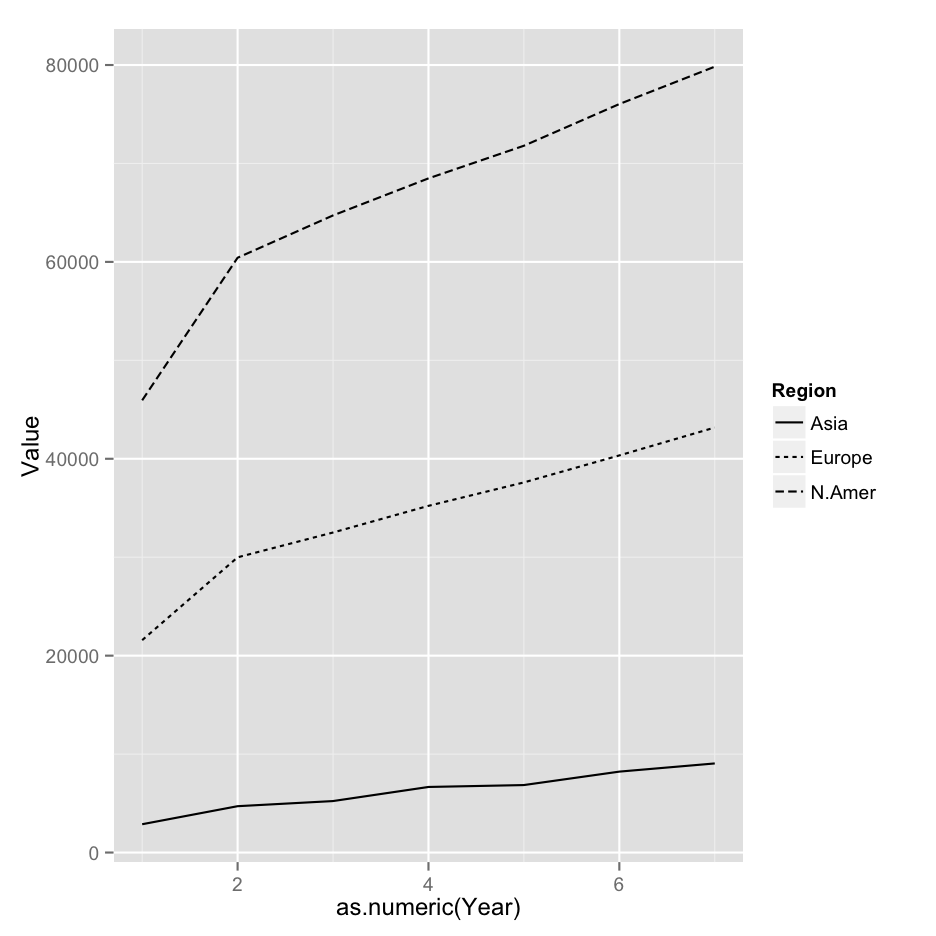
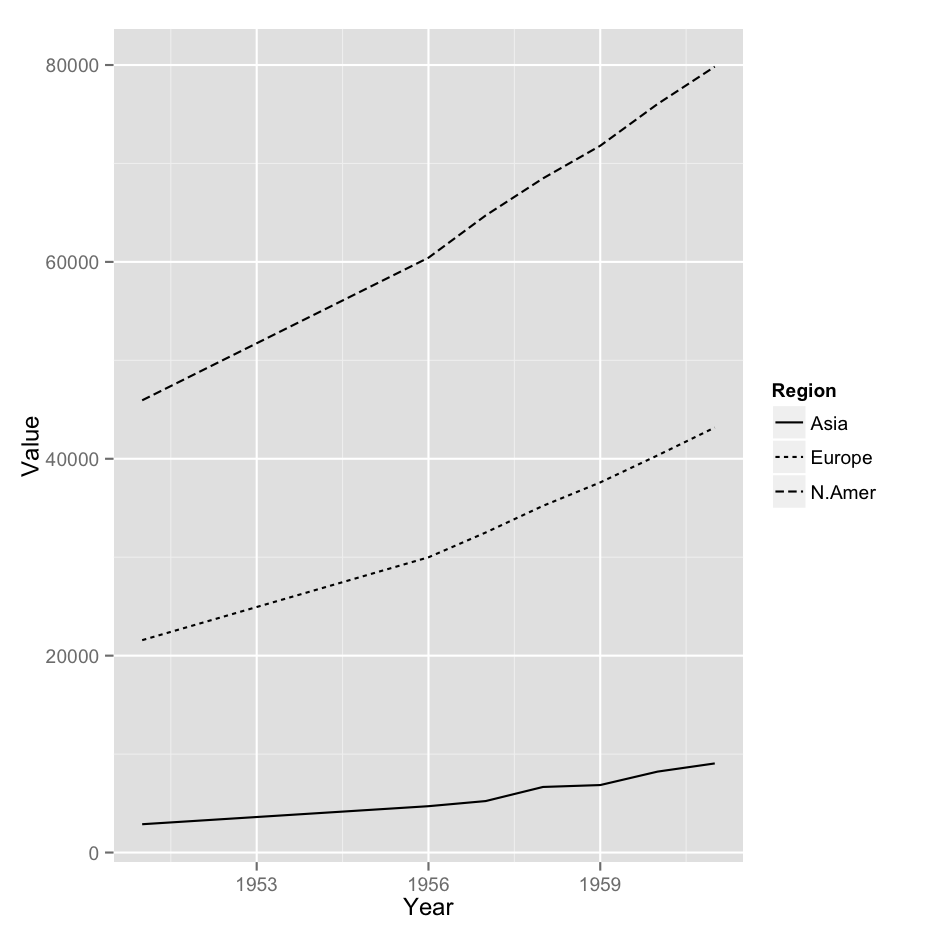
correct minor bugs

diff --git a/lecture_ggplot2/index.html b/lecture_ggplot2/index.html
@@ -579,7 +579,7 @@ ggplot(siris, aes(x=Species, fill=Fat)) + geom_bar(position=position_dodge())
     <h2>Exercise: Working hours by industry?</h2>
   </hgroup>
   <article data-timings="">
-    <pre><code class="r">data(&quot;salary&quot;, package=&quot;DSC2014Tutorial&quot;)
+    <pre><code class="r">data(&quot;salary&quot;, package=&quot;DSC2014Tutorial&quot;) # or load(&#39;salary.RData&#39;)
 par(family=&#39;Heiti TC Light&#39;) # for OS X (XQuartz device)
 hist(salary_2013$平均工時, main=NULL)
 </code></pre>
@@ -1147,7 +1147,8 @@ identical(WP.long$Value, WP.long2$Value)
     <h2>The rest is easy!</h2>
   </hgroup>
   <article data-timings="">
-    <pre><code class="r">ggplot(WP.long, aes(x=as.numeric(Year), y=Value, color=Region)) + geom_line()
+    <pre><code class="r">WP.long$Year &lt;- as.integer(as.character(WP.long$Year))
+ggplot(WP.long, aes(x=Year, y=Value, color=Region)) + geom_line()
 </code></pre>
 
 <div style='float:left;width:48%;' class='centered'>
@@ -1183,7 +1184,7 @@ identical(WP.long$Value, WP.long2$Value)
     <h2>More grouping var: linetype</h2>
   </hgroup>
   <article data-timings="">
-    <pre><code class="r">ggplot(WP.long, aes(x=as.numeric(Year), y=Value, linetype=Region)) + geom_line()
+    <pre><code class="r">ggplot(WP.long, aes(x=Year, y=Value, linetype=Region)) + geom_line()
 </code></pre>
 
 <p><img src="assets/fig/unnamed-chunk-54.png" title="plot of chunk unnamed-chunk-54" alt="plot of chunk unnamed-chunk-54" width="468" style="display: block; margin: auto;" /></p>
@@ -1197,7 +1198,7 @@ identical(WP.long$Value, WP.long2$Value)
     <h2>Again, beware of categorical x!</h2>
   </hgroup>
   <article data-timings="">
-    <pre><code class="r">ggplot(WP.long, aes(x=Year, y=Value, linetype=Region, group=Region)) + geom_line()
+    <pre><code class="r">ggplot(WP.long, aes(x=factor(Year), y=Value, linetype=Region, group=Region)) + geom_line()
 </code></pre>
 
 <p><img src="assets/fig/unnamed-chunk-55.png" title="plot of chunk unnamed-chunk-55" alt="plot of chunk unnamed-chunk-55" width="468" style="display: block; margin: auto;" /></p>
@@ -1211,7 +1212,7 @@ identical(WP.long$Value, WP.long2$Value)
     <h2>Reverse order of legend labels</h2>
   </hgroup>
   <article data-timings="">
-    <pre><code class="r">ggplot(WP.long, aes(x=as.numeric(Year), y=Value, linetype=Region)) + geom_line() +
+    <pre><code class="r">ggplot(WP.long, aes(x=Year, y=Value, linetype=Region)) + geom_line() +
   guides(linetype=guide_legend(reverse=TRUE))
 </code></pre>
 
@@ -1226,7 +1227,7 @@ identical(WP.long$Value, WP.long2$Value)
     <h2>Exercise: Real wage trending down...</h2>
   </hgroup>
   <article data-timings="">
-    <pre><code class="r">load(&#39;salary.RData&#39;); par(family=&#39;Heiti TC Light&#39;) # for OS X (XQuartz device)
+    <pre><code class="r">data(&quot;salary&quot;, package=&quot;DSC2014Tutorial&quot;) # or load(&#39;salary.RData&#39;)
 plot(x=salary_cpi$year, y=salary_cpi$salary, type=&#39;l&#39;, xlab=&#39;Year&#39;, ylab=&#39;Wage&#39;)
 lines(x=salary_cpi$year, y=salary_cpi$real_wage, col=&#39;red&#39;)
 legend(&#39;bottomright&#39;, c(&#39;Nominal&#39;, &#39;Real&#39;), lty=c(1,1), col=c(&#39;black&#39;,&#39;red&#39;), inset=.02)

diff --git a/lecture_ggplot2/index.md b/lecture_ggplot2/index.md
@@ -349,7 +349,7 @@ ggplot(iris, aes(x=Sepal.Length, y=..density.., fill=Species)) +
 ## Exercise: Working hours by industry?
 
 ```r
-data("salary", package="DSC2014Tutorial")
+data("salary", package="DSC2014Tutorial") # or load('salary.RData')
 par(family='Heiti TC Light') # for OS X (XQuartz device)
 hist(salary_2013$平均工時, main=NULL)
 ```
@@ -755,7 +755,8 @@ identical(WP.long$Value, WP.long2$Value)
 ## The rest is easy!
 
 ```r
-ggplot(WP.long, aes(x=as.numeric(Year), y=Value, color=Region)) + geom_line()
+WP.long$Year <- as.integer(as.character(WP.long$Year))
+ggplot(WP.long, aes(x=Year, y=Value, color=Region)) + geom_line()
 ```
 
 *** =left
@@ -788,7 +789,7 @@ WP.long[1:12,]
 ## More grouping var: linetype
 
 ```r
-ggplot(WP.long, aes(x=as.numeric(Year), y=Value, linetype=Region)) + geom_line()
+ggplot(WP.long, aes(x=Year, y=Value, linetype=Region)) + geom_line()
 ```
 
 <img src="assets/fig/unnamed-chunk-54.png" title="plot of chunk unnamed-chunk-54" alt="plot of chunk unnamed-chunk-54" width="468" style="display: block; margin: auto;" />
@@ -798,7 +799,7 @@ ggplot(WP.long, aes(x=as.numeric(Year), y=Value, linetype=Region)) + geom_line()
 ## Again, beware of categorical x!
 
 ```r
-ggplot(WP.long, aes(x=Year, y=Value, linetype=Region, group=Region)) + geom_line()
+ggplot(WP.long, aes(x=factor(Year), y=Value, linetype=Region, group=Region)) + geom_line()
 ```
 
 <img src="assets/fig/unnamed-chunk-55.png" title="plot of chunk unnamed-chunk-55" alt="plot of chunk unnamed-chunk-55" width="468" style="display: block; margin: auto;" />
@@ -808,7 +809,7 @@ ggplot(WP.long, aes(x=Year, y=Value, linetype=Region, group=Region)) + geom_line
 ## Reverse order of legend labels
 
 ```r
-ggplot(WP.long, aes(x=as.numeric(Year), y=Value, linetype=Region)) + geom_line() +
+ggplot(WP.long, aes(x=Year, y=Value, linetype=Region)) + geom_line() +
   guides(linetype=guide_legend(reverse=TRUE))
 ```
 
@@ -819,7 +820,7 @@ ggplot(WP.long, aes(x=as.numeric(Year), y=Value, linetype=Region)) + geom_line()
 ## Exercise: Real wage trending down...
 
 ```r
-load('salary.RData'); par(family='Heiti TC Light') # for OS X (XQuartz device)
+data("salary", package="DSC2014Tutorial") # or load('salary.RData')
 plot(x=salary_cpi$year, y=salary_cpi$salary, type='l', xlab='Year', ylab='Wage')
 lines(x=salary_cpi$year, y=salary_cpi$real_wage, col='red')
 legend('bottomright', c('Nominal', 'Real'), lty=c(1,1), col=c('black','red'), inset=.02)
